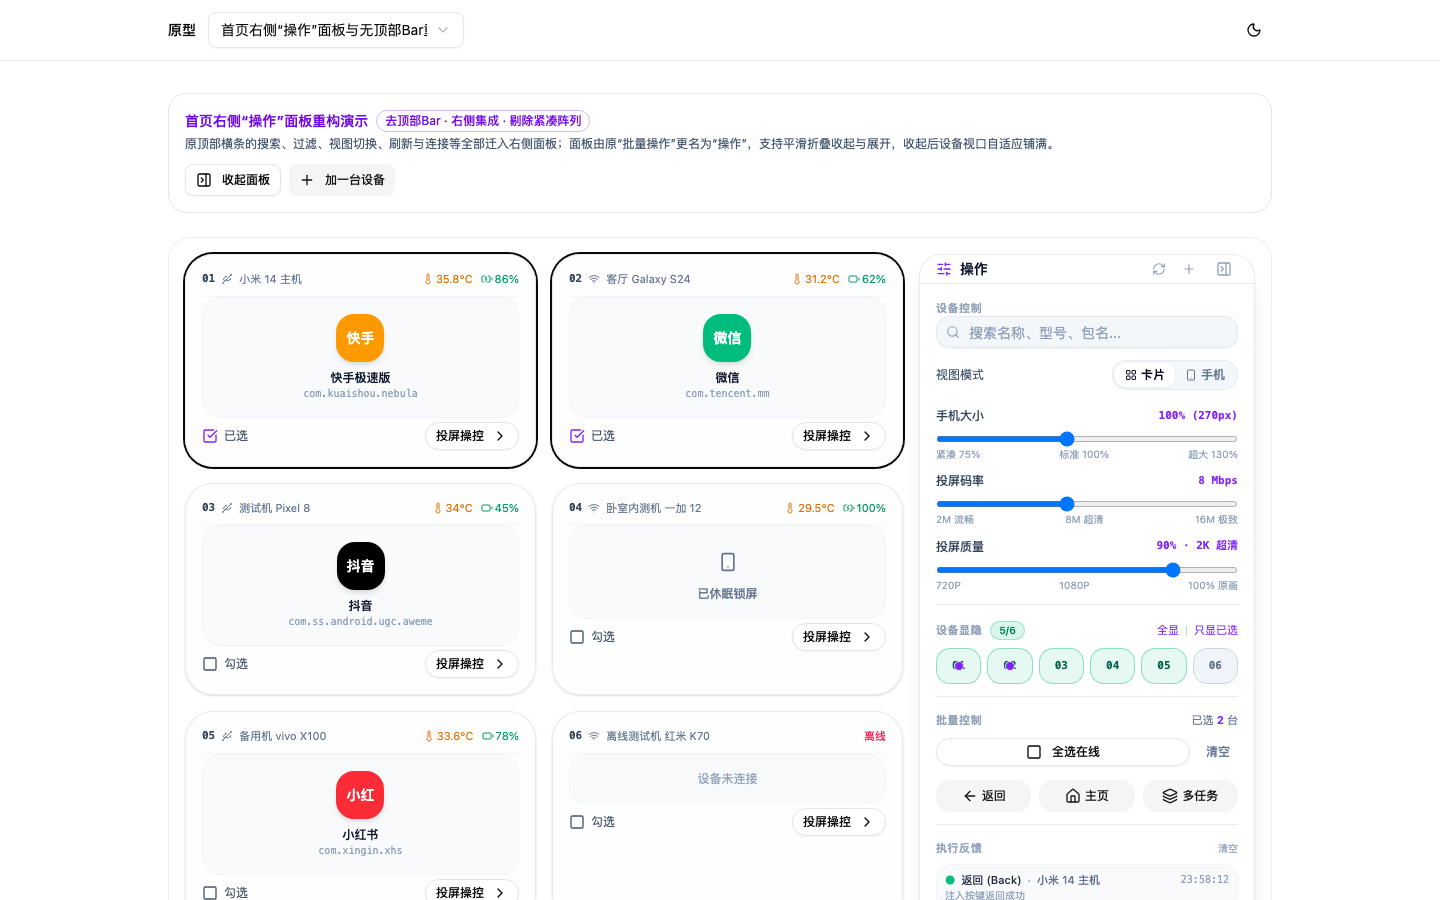
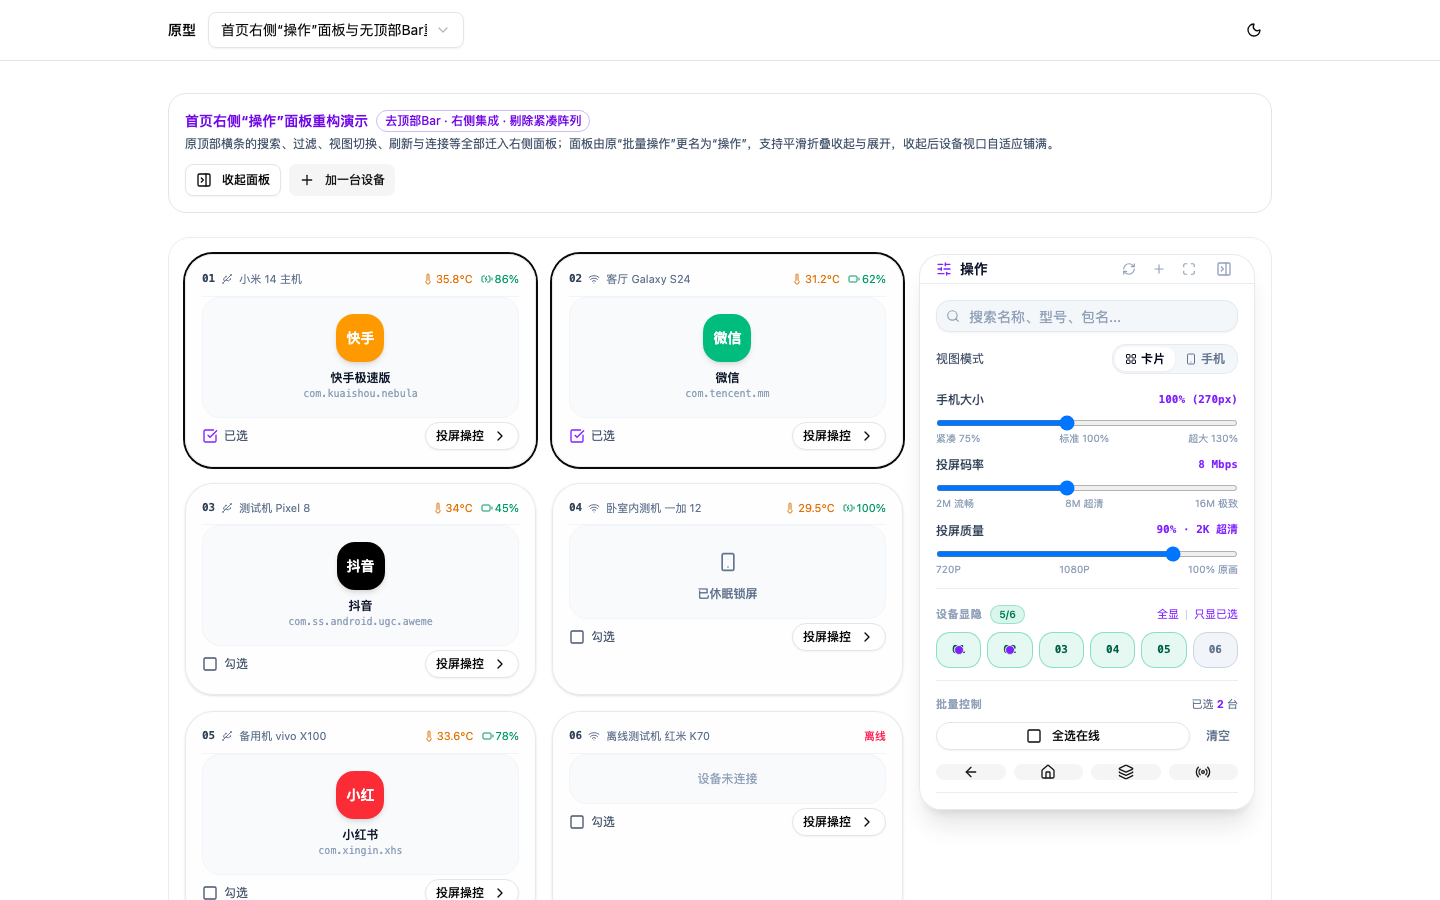
feat(原型@v1.33.0-feature): 批量动作纯图标化并新增同步操作功能与设计文档归档

diff --git a/prototypes/cases/home-action-panel-v1/Prototype.vue b/prototypes/cases/home-action-panel-v1/Prototype.vue
@@ -13,6 +13,7 @@ import {
   PanelRightClose,
   PanelRightOpen,
   Plus,
+  Radio,
   RefreshCw,
   Search,
   SlidersHorizontal,
@@ -56,8 +57,7 @@ const qualityLabel = computed(() => {
   return '100% 原画'
 })
 
-// 手机视图显示尺寸
-const dashSize = ref<'small' | 'medium' | 'large' | 'fill'>('medium')
+// 网页全屏展示状态
 const isPageFullscreen = ref(false)
 
 // 显隐过滤状态（存储隐藏的 serial）
@@ -68,40 +68,21 @@ const selectedSerials = ref<string[]>([devices.value[0].serial, devices.value[1]
 
 // 批量操作运行状态
 const batchRunning = ref(false)
-const currentAction = ref('')
 
-// 操作反馈历史记录
-interface ActionResult {
-  id: string
-  time: string
-  action: string
-  serial: string
-  name: string
-  status: 'success' | 'failed'
-  message: string
+// 同步操作模式状态
+const isSyncActive = ref(false)
+function toggleSync() {
+  if (selectedSerials.value.length === 0) {
+    toast.error('请先勾选需要参与同步操作的设备')
+    return
+  }
+  isSyncActive.value = !isSyncActive.value
+  if (isSyncActive.value) {
+    toast.success(`已开启同步操作：对主控设备的操作将实时同步至已选的 ${selectedSerials.value.length} 台设备`)
+  } else {
+    toast.info('已关闭同步操作')
+  }
 }
-const actionHistory = ref<ActionResult[]>([
-  {
-    id: '1',
-    time: '23:58:12',
-    action: '返回 (Back)',
-    serial: devices.value[0].serial,
-    name: devices.value[0].alias || devices.value[0].serial,
-    status: 'success',
-    message: '注入按键返回成功',
-  },
-  {
-    id: '2',
-    time: '23:58:12',
-    action: '返回 (Back)',
-    serial: devices.value[1].serial,
-    name: devices.value[1].alias || devices.value[1].serial,
-    status: 'success',
-    message: '注入按键返回成功',
-  },
-])
-
-
 
 // 刷新状态
 const isRefreshing = ref(false)
@@ -200,7 +181,7 @@ function clearSelection() {
   selectedSerials.value = []
 }
 
-// 模拟触发批量操作
+// 模拟触发批量操作（轻量即时反馈）
 function triggerBatchAction(actionName: 'back' | 'home' | 'app_switch') {
   if (selectedSerials.value.length === 0) {
     toast.error('请先勾选需要操作的设备')
@@ -214,27 +195,11 @@ function triggerBatchAction(actionName: 'back' | 'home' | 'app_switch') {
   }
   const label = labelMap[actionName]
   batchRunning.value = true
-  currentAction.value = label
 
   setTimeout(() => {
     batchRunning.value = false
-    currentAction.value = ''
-
-    const timeStr = new Date().toTimeString().split(' ')[0]
-    selectedSerials.value.forEach((s) => {
-      const dev = devices.value.find(d => d.serial === s)
-      actionHistory.value.unshift({
-        id: Math.random().toString(36).slice(2, 9),
-        time: timeStr,
-        action: label,
-        serial: s,
-        name: dev?.alias || s,
-        status: 'success',
-        message: '指令已下发并执行',
-      })
-    })
-    toast.success(`批量执行「${label}」完成（共 ${selectedSerials.value.length} 台）`)
-  }, 500)
+    toast.success(`批量执行「${label}」完成（共 ${selectedSerials.value.length} 台设备）`)
+  }, 350)
 }
 
 // 模拟添加设备
@@ -367,6 +332,9 @@ function getAppBadgeBg(iconType: string) {
                     {{ dev.telemetry.batteryLevel }}%
                   </span>
                   <span v-else class="text-rose-500 font-medium">离线</span>
+                  <span v-if="isSyncActive && selectedSerials.includes(dev.serial)" class="flex items-center gap-0.5 text-violet-600 dark:text-violet-400 font-semibold animate-pulse text-[10px]">
+                    <Radio class="h-2.5 w-2.5" /> 同步
+                  </span>
                 </div>
               </div>
 
@@ -502,6 +470,16 @@ function getAppBadgeBg(iconType: string) {
                 <Plus class="h-3.5 w-3.5" />
               </button>
 
+              <!-- 全屏切换 -->
+              <button
+                type="button"
+                class="p-1.5 rounded-xl text-slate-400 hover:text-slate-900 hover:bg-slate-100 dark:hover:text-white dark:hover:bg-white/10 cursor-pointer transition-colors"
+                :title="isPageFullscreen ? '退出全屏' : '全屏展示'"
+                @click="isPageFullscreen = !isPageFullscreen; toast.info(isPageFullscreen ? '进入全屏展示' : '退出全屏展示')"
+              >
+                <Maximize class="h-3.5 w-3.5" />
+              </button>
+
               <!-- 收起按钮 -->
               <button
                 type="button"
@@ -518,10 +496,8 @@ function getAppBadgeBg(iconType: string) {
           <!-- 面板内容滚动区 -->
           <div class="p-4 space-y-4 overflow-y-auto max-h-[calc(100vh-16rem)] flex-1 overscroll-contain text-xs">
             
-            <!-- ====== 模块 1：设备查找、过滤与视图模式（原设备列表 Bar 核心功能） ====== -->
+            <!-- ====== 模块 1：搜索框、视图模式与滑动调节 ====== -->
             <div class="space-y-2.5 pb-3 border-b border-slate-200/80 dark:border-white/10">
-              <span class="text-[11px] font-bold uppercase tracking-wider text-slate-400 dark:text-slate-500">设备控制</span>
-              
               <!-- 搜索框 -->
               <div class="relative w-full">
                 <Search class="absolute left-2.5 top-1/2 h-3.5 w-3.5 -translate-y-1/2 text-slate-400 dark:text-slate-500" />
@@ -729,106 +705,53 @@ function getAppBadgeBg(iconType: string) {
                 </Button>
               </div>
 
-              <!-- 批量动作按钮行 -->
-              <div class="grid grid-cols-3 gap-2 pt-1">
+              <!-- 批量动作按钮行（4 个纯图标按钮，鼠标悬停展示提示） -->
+              <div class="grid grid-cols-4 gap-2 pt-1">
                 <Button
                   size="sm"
                   variant="secondary"
-                  class="h-8 rounded-xl text-xs gap-1 cursor-pointer"
+                  class="h-8.5 rounded-xl cursor-pointer"
                   :disabled="batchRunning || selectedSerials.length === 0"
+                  title="返回 (Back)"
+                  aria-label="返回 (Back)"
                   @click="triggerBatchAction('back')"
                 >
-                  <ArrowLeft class="h-3 w-3" />
-                  <span>返回</span>
+                  <ArrowLeft class="h-4 w-4" />
                 </Button>
                 <Button
                   size="sm"
                   variant="secondary"
-                  class="h-8 rounded-xl text-xs gap-1 cursor-pointer"
+                  class="h-8.5 rounded-xl cursor-pointer"
                   :disabled="batchRunning || selectedSerials.length === 0"
+                  title="主页 (Home)"
+                  aria-label="主页 (Home)"
                   @click="triggerBatchAction('home')"
                 >
-                  <Home class="h-3 w-3" />
-                  <span>主页</span>
+                  <Home class="h-4 w-4" />
                 </Button>
                 <Button
                   size="sm"
                   variant="secondary"
-                  class="h-8 rounded-xl text-xs gap-1 cursor-pointer"
+                  class="h-8.5 rounded-xl cursor-pointer"
                   :disabled="batchRunning || selectedSerials.length === 0"
+                  title="多任务 (AppSwitch)"
+                  aria-label="多任务 (AppSwitch)"
                   @click="triggerBatchAction('app_switch')"
                 >
-                  <Layers class="h-3 w-3" />
-                  <span>多任务</span>
+                  <Layers class="h-4 w-4" />
                 </Button>
-              </div>
-            </div>
-
-            <!-- ====== 模块 4：显示设置（仅在手机视图生效） ====== -->
-            <div v-if="viewMode === 'phone'" class="space-y-2 pb-3 border-b border-slate-200/80 dark:border-white/10">
-              <span class="text-[11px] font-bold uppercase tracking-wider text-slate-400 dark:text-slate-500">网格显示规格</span>
-              <div class="flex items-center justify-between gap-1">
-                <div class="flex items-center rounded-xl border border-slate-200/80 bg-slate-100/80 dark:border-white/10 dark:bg-black/20 p-0.5 text-[11px]">
-                  <button
-                    v-for="size in (['small', 'medium', 'large', 'fill'] as const)"
-                    :key="size"
-                    type="button"
-                    class="rounded-lg px-2 py-0.5 font-medium transition-all cursor-pointer capitalize"
-                    :class="dashSize === size
-                      ? 'bg-white text-slate-950 shadow-xs font-semibold dark:bg-white/15 dark:text-white'
-                      : 'text-slate-500 hover:text-slate-950 dark:text-slate-400 dark:hover:text-white'"
-                    @click="dashSize = size"
-                  >
-                    {{ size === 'fill' ? '铺满' : size === 'small' ? '小' : size === 'medium' ? '中' : '大' }}
-                  </button>
-                </div>
-
                 <Button
                   size="sm"
-                  variant="ghost"
-                  class="h-7 px-2 text-xs rounded-xl cursor-pointer"
-                  @click="isPageFullscreen = !isPageFullscreen; toast.info(isPageFullscreen ? '进入全屏' : '退出全屏')"
+                  :variant="isSyncActive ? 'default' : 'secondary'"
+                  class="h-8.5 rounded-xl cursor-pointer transition-all"
+                  :class="{ 'bg-violet-600 text-white hover:bg-violet-700 shadow-xs ring-1 ring-violet-500': isSyncActive }"
+                  :disabled="selectedSerials.length === 0"
+                  title="同步操作：通过一台手机，把对它的操作同步到所有已选设备"
+                  aria-label="同步操作"
+                  @click="toggleSync"
                 >
-                  <Maximize class="h-3 w-3 mr-1" />
-                  <span>{{ isPageFullscreen ? '还原' : '全屏' }}</span>
+                  <Radio class="h-4 w-4" :class="{ 'animate-pulse': isSyncActive }" />
                 </Button>
-              </div>
-            </div>
-
-            <!-- ====== 模块 5：操作执行历史 ====== -->
-            <div class="space-y-2">
-              <div class="flex items-center justify-between">
-                <span class="text-[11px] font-bold uppercase tracking-wider text-slate-400 dark:text-slate-500">执行反馈</span>
-                <button
-                  v-if="actionHistory.length > 0"
-                  type="button"
-                  class="text-[10px] text-slate-400 hover:text-slate-600 dark:hover:text-white cursor-pointer"
-                  @click="actionHistory = []"
-                >
-                  清空
-                </button>
-              </div>
-
-              <div v-if="actionHistory.length === 0" class="text-center py-4 text-slate-400">
-                暂无操作记录
-              </div>
-              <div v-else class="space-y-1.5 max-h-36 overflow-y-auto">
-                <div
-                  v-for="item in actionHistory"
-                  :key="item.id"
-                  class="flex items-start justify-between p-2 rounded-xl bg-slate-50 dark:bg-white/5 border border-slate-100 dark:border-white/5 text-[11px]"
-                >
-                  <div class="space-y-0.5 truncate">
-                    <div class="flex items-center gap-1.5 font-medium text-slate-800 dark:text-slate-200">
-                      <span class="text-emerald-500">●</span>
-                      <span>{{ item.action }}</span>
-                      <span class="text-slate-400">·</span>
-                      <span class="truncate max-w-[100px] text-slate-500">{{ item.name }}</span>
-                    </div>
-                    <p class="text-[10px] text-slate-400">{{ item.message }}</p>
-                  </div>
-                  <span class="font-mono text-[10px] text-slate-400 shrink-0">{{ item.time }}</span>
-                </div>
               </div>
             </div>
 

diff --git a/docs/versions/v1.33.0-feature/design.md b/docs/versions/v1.33.0-feature/design.md
@@ -47,14 +47,24 @@ graph TD
 
 ### 2.2 右侧面板更名为“操作”，支持两态平滑折叠
 - **展开态 (Expanded，宽 320px~336px)**：
-  - **Header**：左侧图标 + 标题“**操作**”；右侧放置刷新（带旋转动画）、连接设备（加号）、收起面板（`<PanelRightClose>`）。
-  - **设备控制**：支持名称/型号/包名/序列号模糊搜索的输入框（带一键清除 `X`）；视图模式单选（卡片 `deck` vs 手机 `phone`）。
+  - **Header**：左侧图标 + 标题“**操作**”；右侧放置刷新（带旋转动画）、连接设备（加号）、网页全屏切换（`<Maximize>`）、收起面板（`<PanelRightClose>`）。
+  - **设备搜索**：去除多余的“设备控制”标题，直接放置支持名称/型号/包名/序列号模糊搜索的输入框（带一键清除 `X`）；紧跟视图模式单选（卡片 `deck` vs 手机 `phone`）。
   - **滑动调节组 (Sliders)**：
     1. **手机大小**：`70% ~ 140%`（步进 5%，对应基准宽 190px ~ 380px，默认 100% 270px），左侧卡片与网格实时无级放大缩小并自动流式折行；
     2. **投屏码率**：`2 Mbps ~ 16 Mbps`（步进 1，默认 8 Mbps），标注 `2M 流畅`、`8M 超清`、`16M 极致`；
     3. **投屏质量**：`50% ~ 100%`（步进 5%，默认 90%），标注 `720P`、`1080P`、`100% 原画`。
   - **设备显隐区**：标题“**设备显隐**”旁边放置在线设备数微缩胶囊（如 `5/6`），右侧放置“全显 | 只显已选”；下方排列 01..06 编号小方块。
-  - **批量控制与反馈**：全选/清空、返回/主页/多任务离散按键、逐台执行历史。
+  - **批量动作纯图标栏（无文字 + Hover 悬浮提示）**：
+    - **彻底去除文字标签**：动作按钮不再展示“返回”、“主页”、“多任务”等文字，改用 4 个精致正方形/圆角纯图标按钮并排排列（`grid-cols-4`），消除多余字宽，鼠标悬浮时展示清晰的功能气泡提示（Tooltip）；
+    - **新增“同步操作”按钮**：
+      - **业务定义**：通过操控任意一台主控手机，将其所有的屏幕触控事件（点击、滑动、长按）、硬件按键及输入指令，实时同频同步广播并注入至所有当前“已选择（Selected）”的设备；
+      - **交互体验**：纯图标展示（`<Radio>` / `<Repeat>`），支持点击切换开启/关闭；未勾选任何设备时置灰禁用并给出提示；激活状态下按钮呈紫色高亮，已勾选从属设备卡片展现同步联动呼吸态；
+    - **四键纯图标组合**：
+      1. `返回 (Back)`：`<ArrowLeft>`，Hover 提示“返回 (Back)”
+      2. `主页 (Home)`：`<Home>`，Hover 提示“主页 (Home)”
+      3. `多任务 (AppSwitch)`：`<Layers>`，Hover 提示“多任务 (AppSwitch)”
+      4. `同步操作 (Sync)`：`<Repeat>` / `<Radio>`，Hover 提示“同步操作：将对当前主控机的操作实时同步至所有已选设备”
+    - **去除执行反馈长日志**：彻底移除原底部“执行反馈”历史列表，批量操作与同步切换统一采用即时轻量 Toast 反馈，面板底部紧凑平整。
 - **收起态 (Collapsed，宽 52px 极窄竖条)**：
   - 停靠在屏幕右侧，包含大号展开按钮（`<PanelRightOpen>`）、快捷搜索展开、快捷刷新、视图直切；
   - 已选设备数微缩紫色 Badge（如已选 2 台时提示）；

diff --git a/docs/versions/v1.33.0-feature/version.md b/docs/versions/v1.33.0-feature/version.md
@@ -10,9 +10,15 @@
 ### 1. 首页右侧“操作”面板重构与全局控盘
 - **更名与定位升级**：原右侧“批量操作面板”正式更名为**“操作”**面板，提升为首页全局统一控制中枢。
 - **两态平滑折叠**：
-  - **展开态 (Expanded，宽约 320px)**：收纳设备搜索、视图模式、连续滑动调节组、编号显隐网格（01..N）、批量动作与执行历史反馈；
+  - **展开态 (Expanded，宽约 320px)**：收纳设备搜索、视图模式、连续滑动调节组、编号显隐网格（01..N）与四键纯图标动作组；
   - **收起态 (Collapsed，宽 52px 极窄侧边条)**：停靠右侧，包含展开把手按钮（`<PanelRightOpen>`）、快捷搜索展开、快速刷新、视图直切与已选设备 Badge，文字纵向竖排“操 作”。
-- **数量徽标合理下沉**：原顶栏数量胶囊迁移至“设备显隐”旁（如 `5/6` 在线），顶栏标题保持极简“操作”。
+- **界面彻底减负与视觉纯净化**：
+  - 去除搜索框上方的“设备控制”冗余标题，搜索框紧凑置顶；
+  - 去除面板底部的“执行反馈”历史日志长列表，批量点击通过即时轻量 Toast 反馈，消除冗余滚动条；
+  - 顶栏数量胶囊迁移至“设备显隐”旁（如 `5/6` 在线），顶栏标题保持极简“操作”并集成全屏切换按钮。
+- **批量动作纯图标化与新增“同步操作”**：
+  - 动作按钮彻底去除中文文本，改为纯图标展示，鼠标 Hover 悬停展示功能说明；
+  - 新增**“同步操作”**：通过操控一台手机，将其所有触控与按键实时同步至全部已勾选设备。
 
 ### 2. 去除顶部大横条与筛选提示，实现卡片顶格
 - 彻底移除原 `HomeControlCapsule` 大横条，大幅释放首屏垂直可用空间。

diff --git a/docs/versions/v1.33.0-feature/tasks.md b/docs/versions/v1.33.0-feature/tasks.md
@@ -13,7 +13,8 @@
 - ✅ **T2 [操作面板重构与滑动调节]**：
   - 右侧面板更名为“操作”，支持 320px 展开态与 52px 极窄收起态两态平滑折叠；
   - 数量胶囊 `5/6` 下沉至“设备显隐”标题旁，面板 Header 保持极简；
-  - 引入三大连续滑动调节：手机大小（70%~140% 联动缩放）、投屏码率（2~16 Mbps）、投屏质量（50%~100%）。
+  - 引入三大连续滑动调节：手机大小（70%~140% 联动缩放）、投屏码率（2~16 Mbps）、投屏质量（50%~100%）；
+  - 批量动作纯图标化（无文字 + Hover 提示），新增“同步操作”开关（操控一台手机将动作实时同步给所有已选设备）。
 
 - ✅ **T3 [独立原型与实拍证据]**：
   - 完成独立原型案例：`prototypes/cases/home-action-panel-v1/`；
